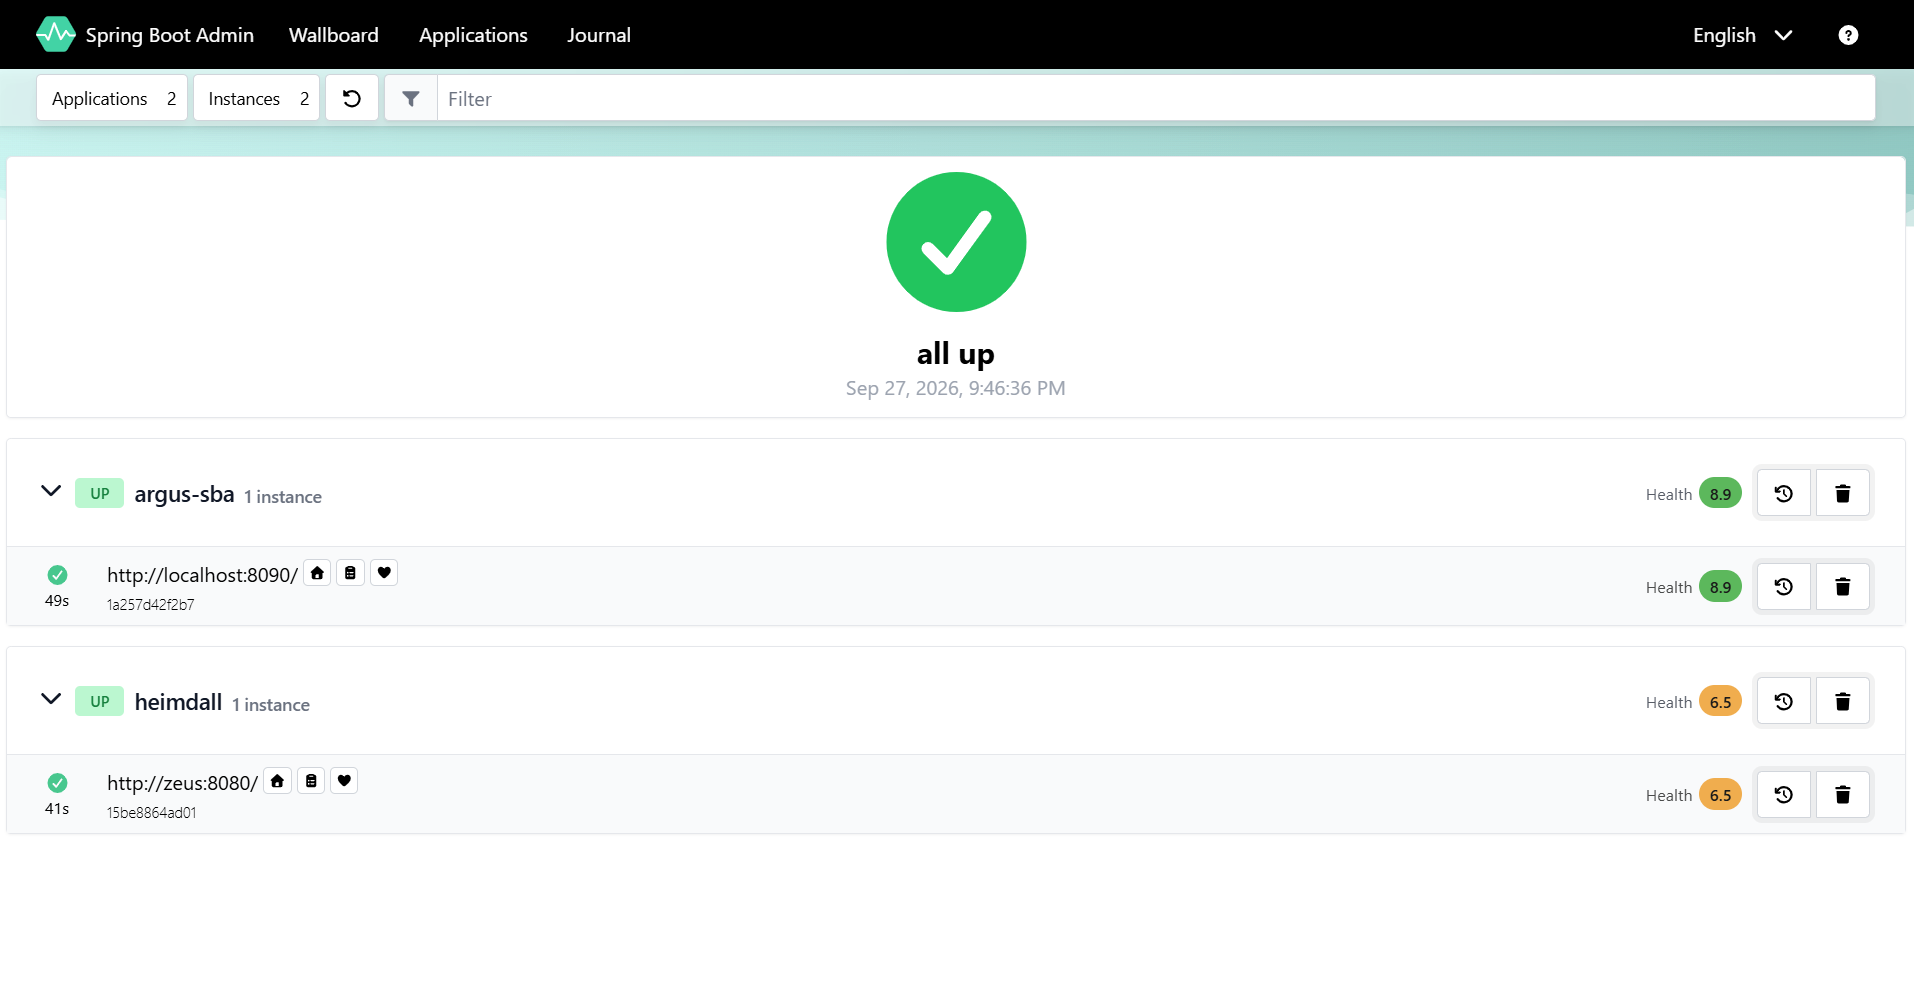
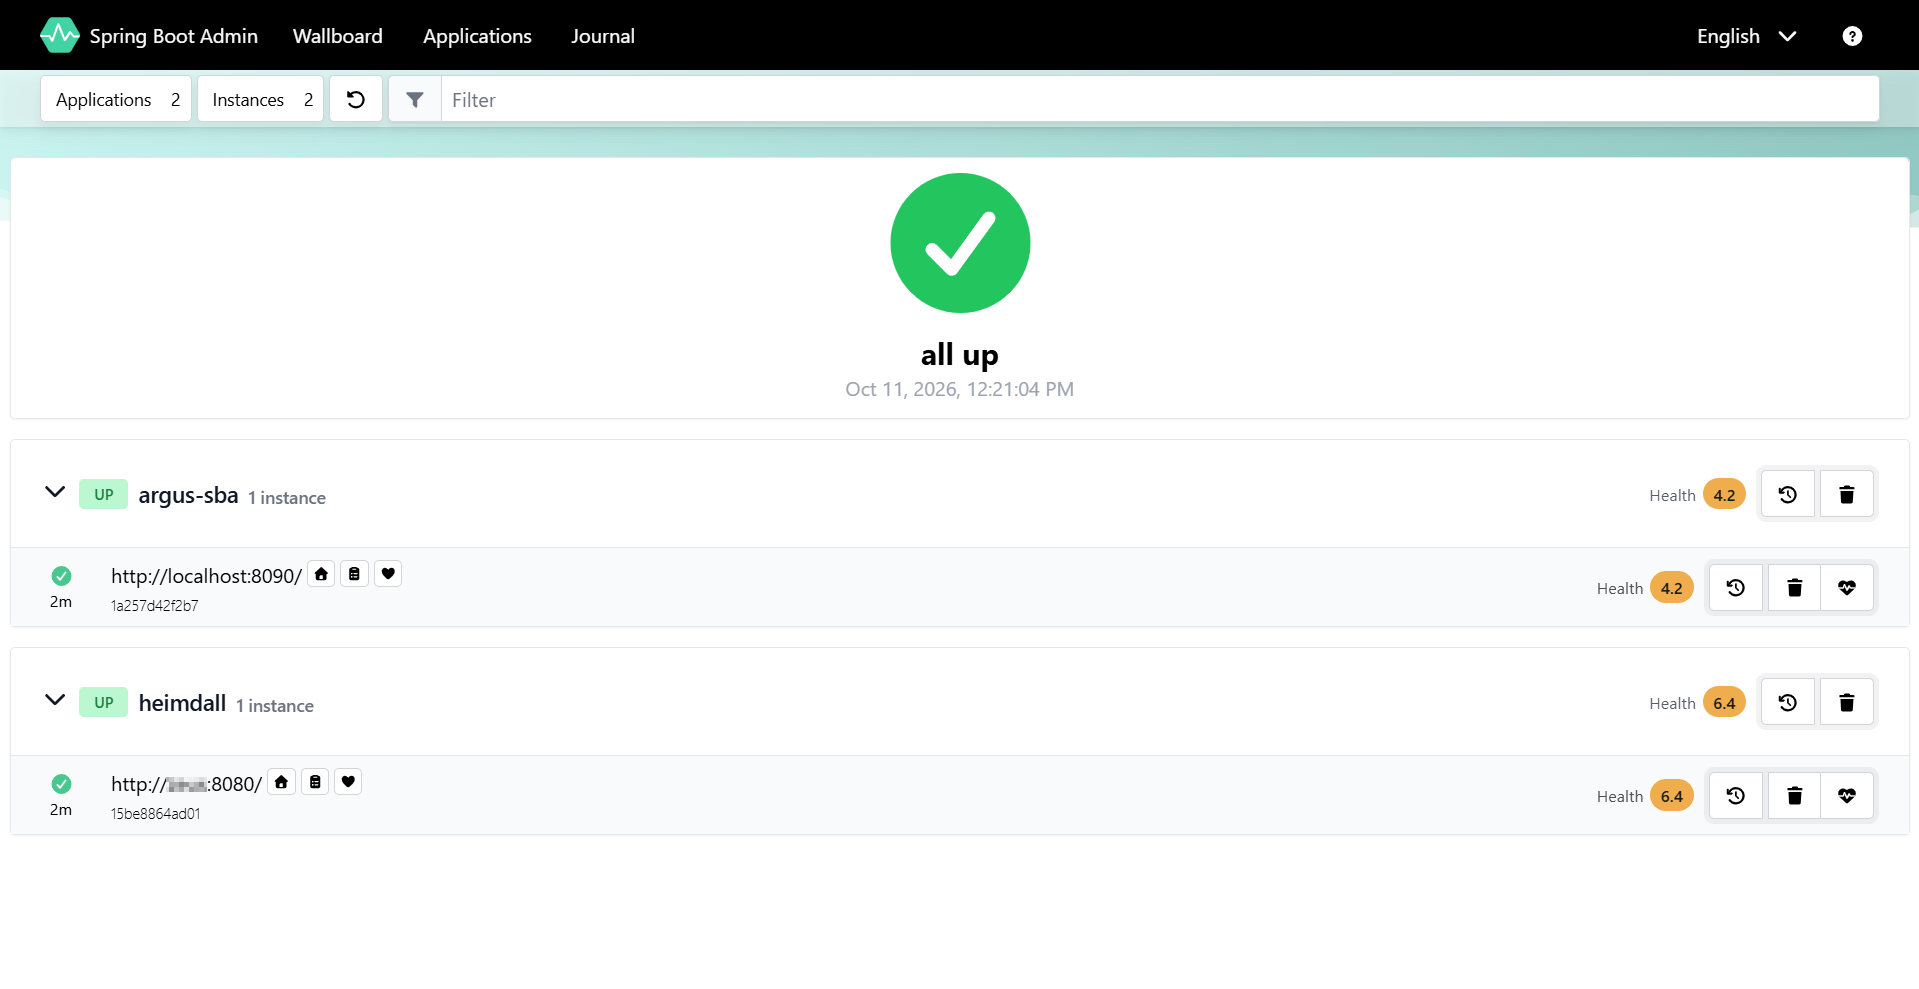
Update docs for SBA

diff --git a/README.md b/README.md
@@ -252,8 +252,13 @@ every instance's own page.
 
 ![Spring Boot Admin applications list with health badges](docs/images/sba-applications-health-badges.png "SBA Applications list, grouped by application: a Health badge next to each application group title (worst score across instances) and next to each individual instance row")
 
-Once an operator has narrowed the problem down to one instance, the badges alone aren't enough to diagnose
-it — the "Health Report" tab closes that gap by embedding that instance's own Argus HTML report (the same
+Each service instance can also open its health report overview in HTML form by clicking the button with "hearth" icon, so the operator can see right away which
+component(s) brought the score down without leaving the applications list.
+
+![Spring Boot Admin applications list with health overview](docs/images/sba-applications-health-overview.png "SBA Applications list, grouped by application: a Health badge next to each application group title (worst score across instances) and next to each individual instance row")
+
+Once an operator has narrowed the problem down to one instance, the badges alone or the report overview aren't enough to diagnose
+it — the "Health Report" dashboard closes that gap by embedding that instance's own Argus HTML report (the same
 report described above, with the full group/item breakdown, logs and environment) directly in SBA, without
 leaving the SBA UI or needing separate access to the monitored application.
 
